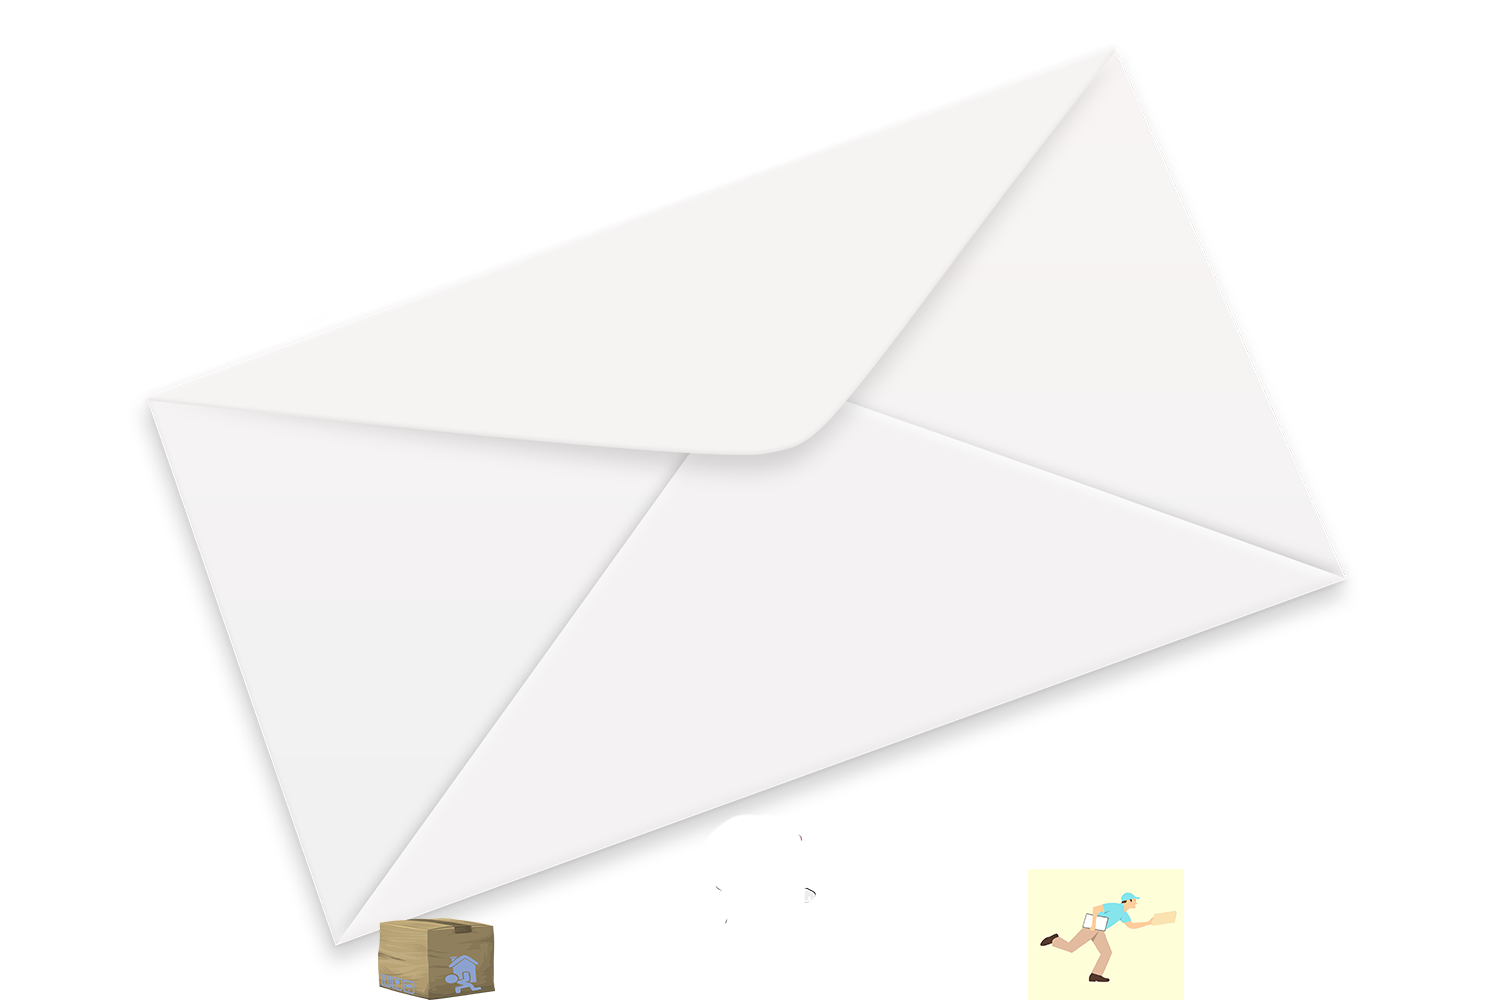
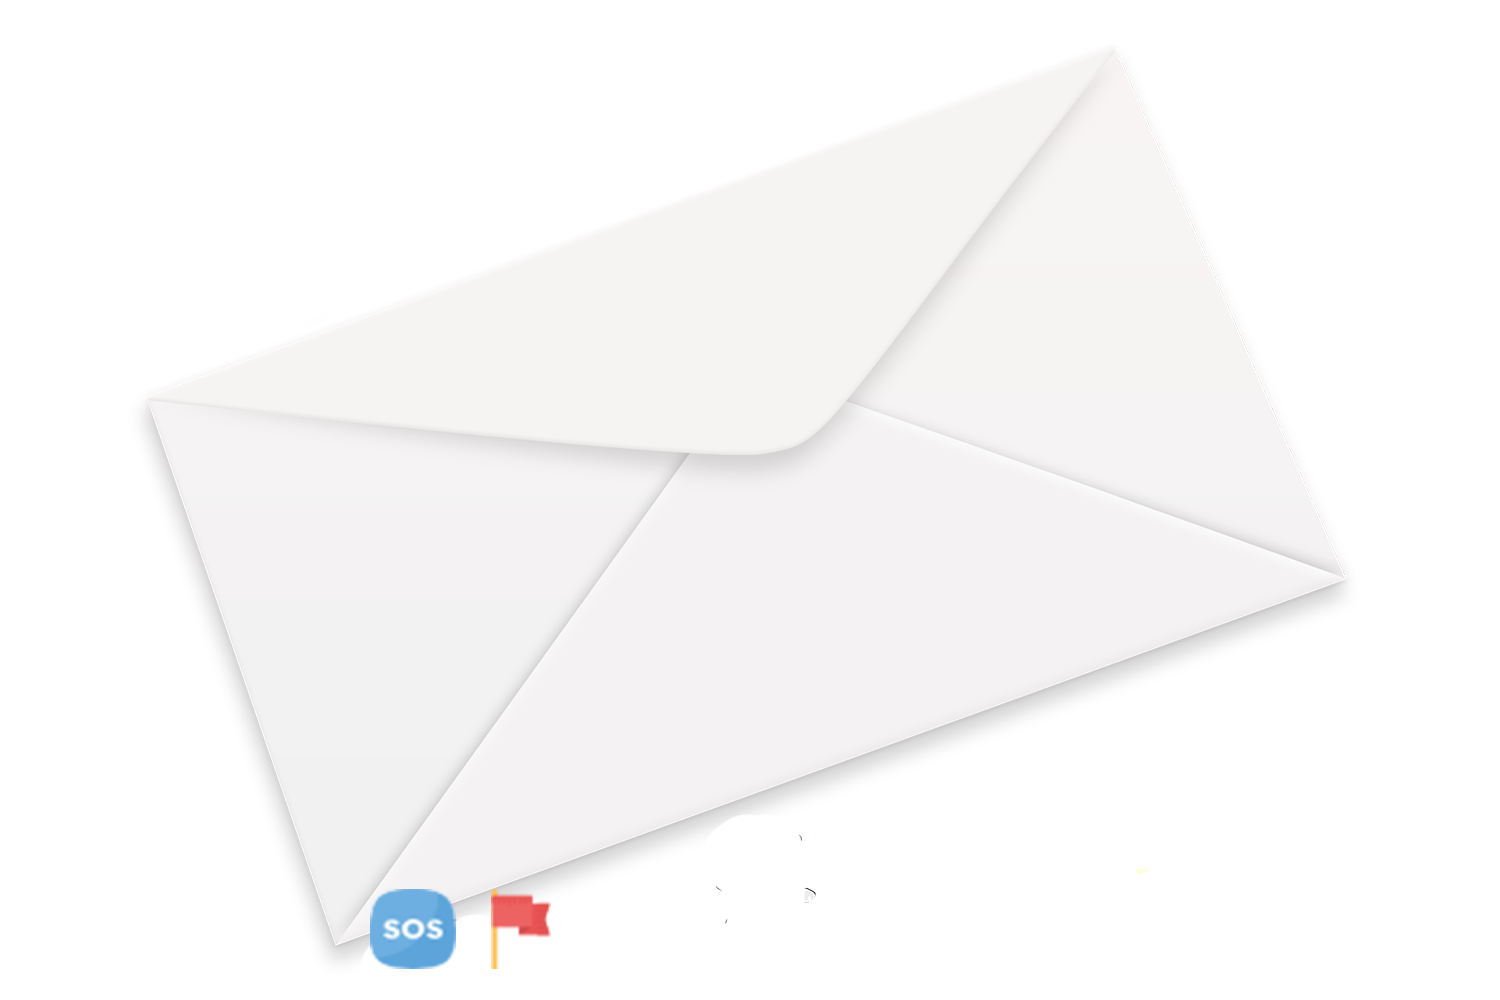
add image and video gallery page

Changed region(s): [[0.6747, 0.868, 0.7973, 1.0], [0.2453, 0.868, 0.368, 1.0]]

diff --git a/user_profile.html b/user_profile.html
@@ -43,6 +43,7 @@
                         <th>Time</th>
                         <th>Names</th>
                         <th>Incident</th>
+                        <th>Sector</th>
                         <th>Status</th>
                         <th>Image Evidence</th>
                         <th>Video</th>
@@ -51,28 +52,62 @@
                     </tr>
                     <tr>
                         <td>1</td>
-                        <td><a href="report_detail.html">12/04/2015 at 8:00 AM</a></td>
+                        <td><a href="redflag_detail.html">12/04/2015 at 8:00 AM</a></td>
                         <td>Mrs. Komago Aketch</td>
                         <td>This Traffic office asked for a bribe of UGX 40000 to let me go.</td>
+                        <td>Police</td>
                         <td>Under Investigation</td>
-                        <td><a href="#">view</a></td>
-                        <td><a href="#">view</a></td>
-                        <td></td>
-                        <td></td>
+                        <td><a href="records_images.html">view</a></td>
+                        <td><a href="records_videos.html">view</a></td>
+                        <td>0.015</td>
+                        <td>0.221</td>
                     </tr>
                     <tr>
                         <td>2</td>
-                        <td><a href="report_detail.html">24/07/2016 at 2:45pm</a></td>
+                        <td><a href="redflag_detail.html">24/07/2016 at 2:45pm</a></td>
                         <td>Mr. Ssewanyana Peter</td>
                         <td>Is building in a wetland</td>
+                        <td>NEMA, KCCA</td>
                         <td>Rejected</td>
-                        <td><a href="#">view</a></td>
-                        <td><a href="#">view</a></td>
-                        <td></td>
-                        <td></td>
+                        <td><a href="records_images.html">view</a></td>
+                        <td><a href="records_videos.html">view</a></td>
+                        <td>0.012</td>
+                        <td>0.324</td>
                     </tr>
-            
+                
                 </table>
+                
+                </div>
+                
+                <h5 id="theme_blue"><img id="img_s" src="images/sos.png" alt="logo">INTERVATION REQUESTS</h5>
+                <div style="width:100%" class="form_style">
+                    <table style="max-width:100%">
+                        <tr>
+                            <th>No.</th>
+                            <th>Date</th>
+                            <th>Request</th>
+                            <th>Sector</th>
+                            <th>Status</th>
+                            <th>Image Evidence</th>
+                            <th>Video</th>
+                            <th>Lat</th>
+                            <th>Long</th>
+                        </tr>
+                        <tr>
+                            <td>1</td>
+                            <td><a href="intervation_detail.html">12/04/2015 at 8:00 AM</a></td>
+                            <td>People are filling up wetlands and building in them in Kisasi along Northern bypass. This
+                                should be looked
+                                into.</td>
+                            <td>Government, NEMA, Police, KCCA</td>
+                            <td>Resolved</td>
+                            <td><a href="records_images.html">view</a></td>
+                            <td><a href="records_videos.html">view</a></td>
+                            <td>0.125</td>
+                            <td>0.458</td>
+                        </tr>
+                    </table>
+
             </div>
 
         </div>

diff --git a/records_images.html b/records_images.html
@@ -1,0 +1,61 @@
+<!DOCTYPE html>
+<html>
+
+<head>
+    <meta charset="utf-8" />
+    <meta http-equiv="X-UA-Compatible" content="IE=edge">
+    <title>iReporter</title>
+    <link rel="shortcut icon" href="images/favicon.png" type="image/x-icon">
+    <meta name="viewport" content="width=device-width, initial-scale=1">
+    <link rel="stylesheet" type="text/css" media="screen" href="css/style.css" />
+    <script src="main.js"></script>
+</head>
+
+<body>
+    <div class="pageHeading">
+        <span class="logo-l">i</span><span class="logo-r">Reporter</span>
+    </div>
+
+
+    <div style="overflow:auto">
+        <div class="menu">
+            <a href="home.html">HOME</a>
+            <a href="user_profile.html">PROFILE</a>
+            <a href="records.html">RECORDS..</a>
+            <a href="redflags.html">REDFLAGS</a>
+            <a href="intervation.html">INTERVATION</a>
+        </div>
+
+        <div class="main">
+            <p id="theme_about">A Stand Against Corruption.</p>
+            <h4>Always Important To Add Support To Your Claims</h4>
+            <a id="pointer_link" href="redflags.html">
+                <h5 id="theme"><img id="img_s" src="images/flag.png" alt="logo"> REDFLAGS</h5>
+            </a>
+            <a id="pointer_link" href="intervation.html">
+                <h5 id="theme_blue"><img id="img_s" src="images/sos.png" alt="logo"> INTERVATION REQUESTS</h5>
+            </a>
+            <div style="width:100%">
+                <div>
+                    <h1 id="theme"><img id="" src="images/tomatoes.png" alt="logo"> Oopps, No images found!</h1>
+                </div>
+            </div>
+
+        </div>
+
+        <div class="right">
+            <div class="LogOut"><a href="index.html">Logout</a></div>
+
+            <h2 id="text_left">HOTLINE</h2>
+            <p id="text_left"><img id="contact_images" src="images/call.png" alt=""> 0414 5555 555</p>
+            <p id="text_left"><img id="contact_images" src="images/call.png" alt=""> 0414 4444 444</p>
+            <p id="text_left"><img id="contact_images" src="images/email.png" alt=""> ask@ireporter.com</p>
+
+        </div>
+
+    </div>
+    <div class="footer">Andela Level Up 35 December - Anorld Mukone, 2018</div>
+
+</body>
+
+</html>

diff --git a/records_videos.html b/records_videos.html
@@ -1,0 +1,57 @@
+<!DOCTYPE html>
+<html>
+
+<head>
+    <meta charset="utf-8" />
+    <meta http-equiv="X-UA-Compatible" content="IE=edge">
+    <title>iReporter</title>
+    <link rel="shortcut icon" href="images/favicon.png" type="image/x-icon">
+    <meta name="viewport" content="width=device-width, initial-scale=1">
+    <link rel="stylesheet" type="text/css" media="screen" href="css/style.css" />
+    <script src="main.js"></script>
+</head>
+
+<body>
+    <div class="pageHeading">
+        <span class="logo-l">i</span><span class="logo-r">Reporter</span>
+    </div>
+
+
+    <div style="overflow:auto">
+        <div class="menu">
+            <a href="home.html">HOME</a>
+            <a href="user_profile.html">PROFILE</a>
+            <a href="records.html">RECORDS..</a>
+            <a href="redflags.html">REDFLAGS</a>
+            <a href="intervation.html">INTERVATION</a>
+        </div>
+
+        <div class="main">
+            <p id="theme_about">A Stand Against Corruption.</p>
+            <h4>Always Important To Add Support To Your Claims</h4>
+            <a id="pointer_link" href="redflags.html"><h5 id="theme"><img id="img_s" src="images/flag.png" alt="logo"> REDFLAGS</h5></a>
+            <a id="pointer_link" href="intervation.html"><h5 id="theme_blue"><img id="img_s" src="images/sos.png" alt="logo"> INTERVATION REQUESTS</h5></a>
+            <div style="width:100%">
+               <div>
+                <h1 id="theme"><img id="" src="images/tomatoes.png" alt="logo"> Oopps, No videos found!</h1>
+               </div>
+            </div>
+
+        </div>
+
+        <div class="right">
+            <div class="LogOut"><a href="index.html">Logout</a></div>
+
+            <h2 id="text_left">HOTLINE</h2>
+            <p id="text_left"><img id="contact_images" src="images/call.png" alt=""> 0414 5555 555</p>
+            <p id="text_left"><img id="contact_images" src="images/call.png" alt=""> 0414 4444 444</p>
+            <p id="text_left"><img id="contact_images" src="images/email.png" alt=""> ask@ireporter.com</p>
+
+        </div>
+
+    </div>
+    <div class="footer">Andela Level Up 35 December - Anorld Mukone, 2018</div>
+
+</body>
+
+</html>

diff --git a/css/style.css b/css/style.css
@@ -12,6 +12,10 @@ body {
     background-color: white;
 }
 
+#pointer_link {
+    text-decoration: none;
+}
+
 #img_s {
     width: 20px;
     height: auto;
@@ -42,7 +46,6 @@ body {
     text-decoration: none;
     color: #333;
 }
-
 
 .LogOut {
     text-align: left;
@@ -503,7 +506,8 @@ input[type=submit]:hover {
     border-radius: 5px;
     margin-bottom: 28px;
 }
-.form_style{
+
+.form_style {
     margin-bottom: 56px;
 }
 
